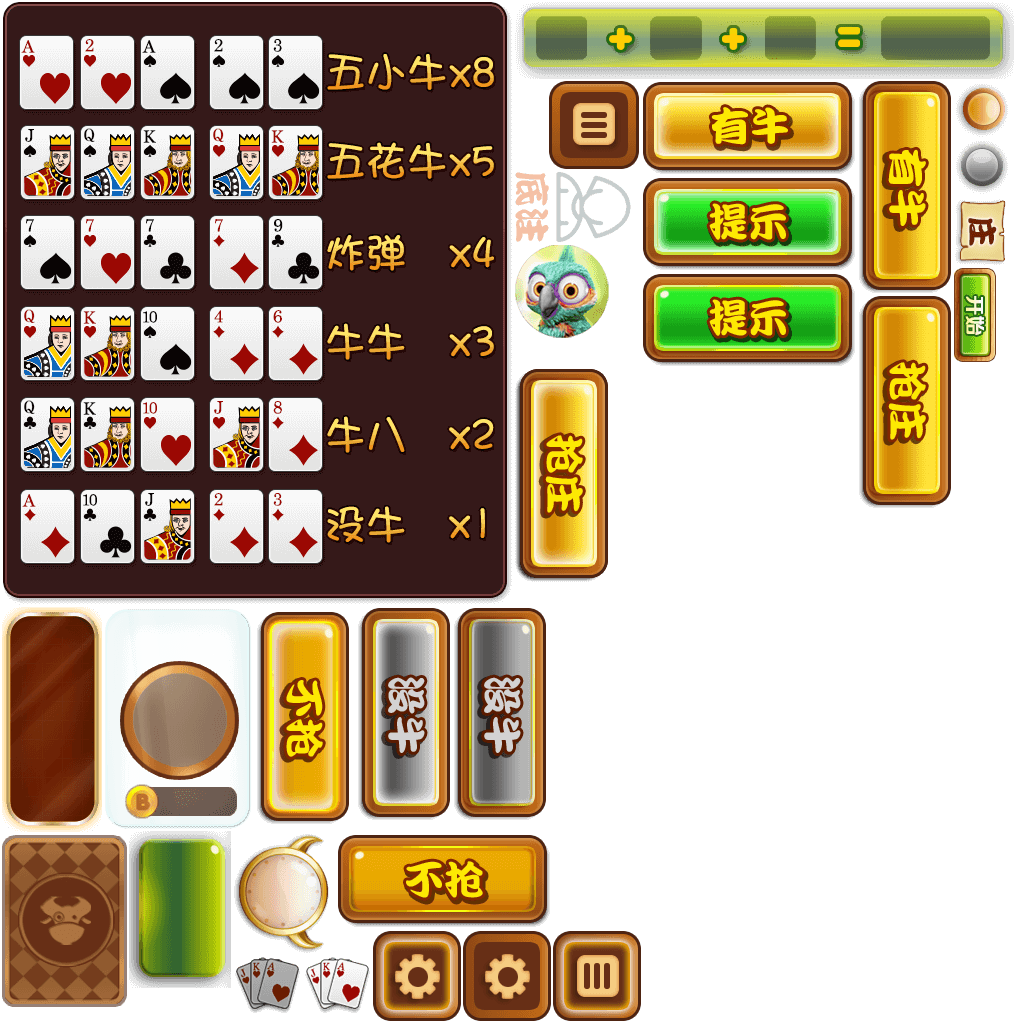
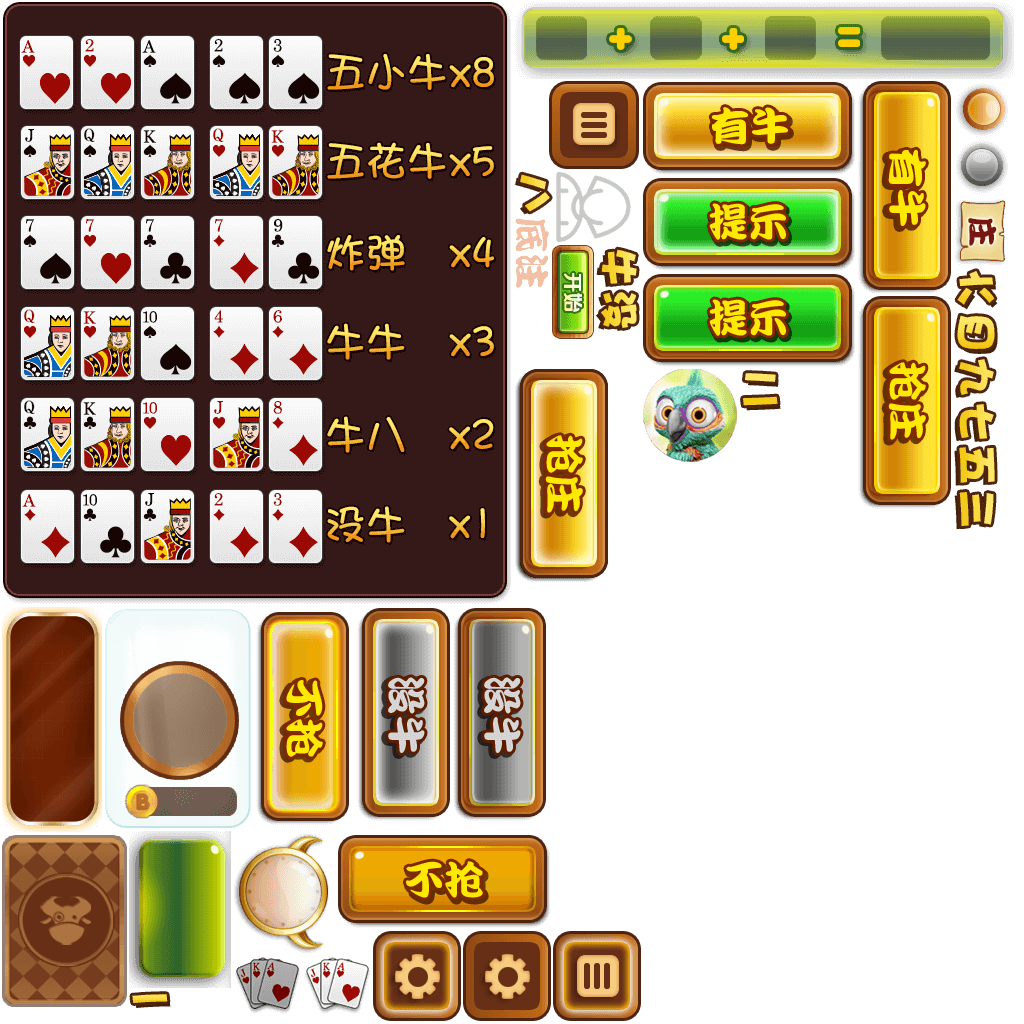
0.4
0.4

diff --git a/games/niuniu/game.min.js b/games/niuniu/game.min.js
@@ -2632,7 +2632,7 @@ a("buffer").Buffer)},{buffer:2}]},{},[1]);var Login={sid:null,scode:null,getSID:
 cc.loader.getXMLHttpRequest(),c="http://game.3721w.com/api/user?sid\x3d"+Login.sid+"\x26scode\x3d"+Login.scode;console.log("Status: Send Get Request to ",c);b.open("GET",c,!0);b.onreadystatechange=function(){4==b.readyState&&(200<=b.status&&207>=b.status?a(!0,b):a(!1,b))};b.send()},randomChar:function(a){for(var b="",c=(new Date).getTime(),d=0;d<a;d++)b+="0123456789qwertyuioplkjhgfdsazxcvbnm".charAt(Math.ceil(1E8*Math.random())%36);return c+b},delCookie:function(a){var b=new Date;b.setTime(b.getTime()-
 1);var c=Login.getCookie(a);null!=c&&(document.cookie=a+"\x3d"+c+";expires\x3d"+b.toGMTString()+";path\x3d/")},getCookie:function(a){a=document.cookie.match(RegExp("(^| )"+a+"\x3d([^;]*)(;|$)"));return null!=a?a[2]:null},relogin:function(){this.delCookie("scode");this.delCookie("sid");window.location.href=res.loginhtml}};var PokerConst={kSuitNone:0,kSuitSpade:1,kSuitHeart:2,kSuitClub:3,kSuitDiamond:4,kSuitJoker:5,kValueNone:0,kValueA:1,kValue2:2,kValue3:3,kValue4:4,kValue5:5,kValue6:6,kValue7:7,kValue8:8,kValue9:9,kValue10:10,kValueJ:11,kValueQ:12,kValueK:13,kValueBlack:14,kValueRed:15,kValueMask:16,kTransMap:{A:1,2:2,3:3,4:4,5:5,6:6,7:7,8:8,9:9,10:10,J:10,Q:10,K:10}};var kGameState={hall:0,classic:1,hundred:2,single:3},gameData={currectConnecttedData:null,currectGameState:null,hallLayer:null,classicLayer:null,singleLayer:null,hundredLayer:null,currenctConnectState:0},connectState={kUnkonw:0,kGateConnectting:1,kGateConnected:2,kHallConnectting:3,kHallConnected:4,kClassicConnectting:5,kClassicConnected:6};var kGameConst={girl:"#girl.png",battle:"#mutiao.png",sysnotice:"#notice.png",lights:["#caid1.png","#caid2.png"],btnClassic:["jingd1.png","jingd2.png"],btnHundred:["bair1.png","bair2.png"],btnSingle:["yule1.png","yule2.png"],btnMore:["more1.png","more2.png"],btnHelp:["help1.png","help2.png"],btnGetMoney:["chongz1.png","chongz2.png"],btnCustomRoom:["baoj1.png","baoj2.png"],btnQuick:["kaishi1.png","kaishi2.png"],btnGameHelp:["btngamehelp.png","btngamehelp1.png"],btnGameSet:["shez1.png","shez2.png"],
 btnGrabBanker:["qiangz1.png","qiangz2.png"],btnNotGrabBanker:["buq1.png","buq2.png"],btnNoNiu:["mein1.png","mein2.png"],btnNiu:["youn1.png","youn2.png"],btnTip:["tishi1.png","tishi2.png"],btnReady:"begin.png",imgCustomRoom:"#baojian.png",imgPokerBG:"#poker_bg.png",imgDiamondSmall:"#fangkuai_small.png",imgDiamondBig:"#fangkuai_big.png",imgHeartSmall:"#hongtao_small.png",imgHeartBig:"#hongtao_big.png",imgClubSmall:"#heimei_small.png",imgClubBig:"#heimei_big.png",imgSpadeSmall:"#heitao_small.png",imgSpadeBig:"#heitao_big.png",
-imgPokerBack:"#poker_dipai.png",imgJBig:"#ranker.png",imgQBig:"#kueen.png",imgKBig:"#king.png",imgHead:"#headframe.png",imgTimerBG:"#room17_n.png",imgBanker:"#banker.png",imgTipBar:"#kuang.png",imgBaseScore:"#dizhu.png",textBaseScore:"#dzwz.png",imgGrabBanker:"#room56_n.png",imgNotGrabBanker:"#room57_n.png"};var UICard=cc.Node.extend({ctor:function(a){this._super();this.bg=new cc.Sprite(kGameConst.imgPokerBG);this.bg.setAnchorPoint(0,0);this.setContentSize(this.bg._rect.width,this.bg._rect.height);this.addChild(this.bg);this.bg.setPosition(0,0);this.smallSuit=new cc.Sprite(kGameConst.imgClubSmall);this.smallSuit.setPosition(20,100);this.bg.addChild(this.smallSuit);this.bigSuit=new cc.Sprite(kGameConst.imgClubBig);this.bigSuit.setPosition(60,60);this.bg.addChild(this.bigSuit);this.point=new ccui.Text;
+imgPokerBack:"#poker_dipai.png",imgJBig:"#ranker.png",imgQBig:"#kueen.png",imgKBig:"#king.png",imgHead:"#headframe.png",imgTimerBG:"#room17_n.png",imgBanker:"#banker.png",imgTipBar:"#kuang.png",imgBaseScore:"#dizhu.png",textBaseScore:"#dzwz.png",imgGrabBanker:"#room56_n.png",imgNotGrabBanker:"#room57_n.png",imgNiuPoint:"#niunum10.png #niunum1.png #niunum2.png #niunum3.png #niunum4.png #niunum5.png #niunum6.png #niunum7.png #niunum8.png #niunum9.png #niunum11.png".split(" ")};var UICard=cc.Node.extend({ctor:function(a){this._super();this.bg=new cc.Sprite(kGameConst.imgPokerBG);this.bg.setAnchorPoint(0,0);this.setContentSize(this.bg._rect.width,this.bg._rect.height);this.addChild(this.bg);this.bg.setPosition(0,0);this.smallSuit=new cc.Sprite(kGameConst.imgClubSmall);this.smallSuit.setPosition(20,100);this.bg.addChild(this.smallSuit);this.bigSuit=new cc.Sprite(kGameConst.imgClubBig);this.bigSuit.setPosition(60,60);this.bg.addChild(this.bigSuit);this.point=new ccui.Text;
 this.point.setString("5");this.point.setPosition(20,117);this.bg.addChild(this.point);this.point.setColor(cc.color.BLACK);this.bk=new cc.Sprite(kGameConst.imgPokerBack);this.bk.setPosition(0,0);this.bk.setAnchorPoint(0,0);this.bg.addChild(this.bk);this.bk.setVisible(!1);this.isShowBack=this.isSelected=!1;this.canTouch=!0;var b=this;cc.eventManager.addListener({event:cc.EventListener.TOUCH_ONE_BY_ONE,swallowTouches:!0,onTouchBegan:function(a,d){return d.getCurrentTarget().containsTouchLocation(a)?
 b.canTouch:!1},onTouchMoved:function(a,b){},onTouchEnded:function(c,d){if(d.getCurrentTarget().containsTouchLocation(c)){b.isSelected=!b.isSelected;var e=b.isSelected?20:-20;b.setPositionY(b.getPositionY()+e);a.onClickCard()}},onTouchCancelled:function(a,b){}},this)},containsTouchLocation:function(a){a=a.getLocation();var b=this.getBoundingBox();return cc.rectContainsPoint(b,a)},setPoker:function(a,b){var c=!1;b==PokerConst.kValueJ?(this.bigSuit.setSpriteFrame((new cc.Sprite(kGameConst.imgJBig)).getSpriteFrame()),
 c=!0):b==PokerConst.kValueQ?(this.bigSuit.setSpriteFrame((new cc.Sprite(kGameConst.imgQBig)).getSpriteFrame()),c=!0):b==PokerConst.kValueK&&(this.bigSuit.setSpriteFrame((new cc.Sprite(kGameConst.imgKBig)).getSpriteFrame()),c=!0);switch(a){case PokerConst.kSuitSpade:this.smallSuit.setSpriteFrame((new cc.Sprite(kGameConst.imgSpadeSmall)).getSpriteFrame());c||this.bigSuit.setSpriteFrame((new cc.Sprite(kGameConst.imgSpadeBig)).getSpriteFrame());this.point.setColor(cc.color.BLACK);break;case PokerConst.kSuitHeart:this.smallSuit.setSpriteFrame((new cc.Sprite(kGameConst.imgHeartSmall)).getSpriteFrame());
@@ -2646,7 +2646,8 @@ c(b)});a.on("close",function(a){a.msgid="close";c(a)});a.on("disconnect",functio
 var b=Math.ceil(5E3*Math.random());pomelo.request(NetWork.gateRoute+".queryEntry",{uid:b,sid:0,scode:0},function(b){if(b.success){console.log("connected successful");NetWork.startTime=null;NetWork.isReconnecting&&(NetWork.isReconnecting=!1);var e=new Player;e.id=b.uid;e.myself=!0;e.money=b.money;e.name=b.name;e.sid=d;e.scode=c;e.avatar=b.avatar;PlayerManager.setPlayer(e);gameData.currectConnecttedData=b;a(b)}else Login.relogin()})})},disconnect:function(){NetWork.pomelo&&(NetWork.selfDisconnectCnt++,
 NetWork.pomelo.disconnect())},switchScene:function(a,b){cc.log("switch \x3d ",a);var c=PlayerManager.getMySelf();c&&(NetWork.disconnect(),"hall"==a.serverType&&(gameData.classicLayer&&NetWork.currectScene.releaseClassicGame(),gameData.hallLayer||NetWork.currectScene.createHall(),gameData.currectGameState=kGameState.hall,gameData.hallLayer.setVisible(!0),gameData.currenctConnectState=connectState.kHallConnectting),"classic"==a.serverType&&(gameData.classicLayer||NetWork.currectScene.createClassicGame(),
 gameData.currectGameState!=kGameState.classic&&(gameData.currectGameState=kGameState.classic,gameData.classicLayer.initUI(),gameData.classicLayer.setVisible(!0),NetWork.currectScene.releaseHallGame(),gameData.currenctConnectState=connectState.kClassicConnectting),gameData.classicLayer.registerNetEvent()),cc.log("------------switch 1---------"),pomelo.init({host:a.host,port:a.port},function(){switch(a.serverType){case "classic":gameData.currenctConnectState=connectState.kClassicConnected;break;case "hall":gameData.currenctConnectState=
-connectState.kHallConnected}pomelo.request(NetWork.hallRoute+".gotoGame",{uid:c.id,csType:a.serverType},function(a){console.log("--data \x3d ",a);!a.success||a.host&&a.port||(gameData.currectGameState=kGameState.hall,"function"==typeof b&&b())})}))}};var res={loginhtml:"login.html",hallbgJPG:"res/hallbj.jpg",part1Plist:"res/part1.plist",part2Plist:"res/part2.plist",part3Plist:"res/part3.plist",part4Plist:"res/part4.plist",gamebgPNG:"res/zhuob.png"},g_resources=[],i;for(i in res)g_resources.push(res[i]);var ClassicGameLayer=cc.Layer.extend({sprite:null,ctor:function(a){this._super();var b=cc.winSize,c=cc.director.getVisibleOrigin();this.pomelo=a;var d=this;this.niuPoint=this.leftTime=0;this.tipList=[];this.tipNiuFlag=this.tipIndex=0;this.gameId="classic";this.selfPlaying=!1;cc.spriteFrameCache.addSpriteFrames(res.part3Plist);cc.spriteFrameCache.addSpriteFrames(res.part4Plist);a=new cc.Sprite(res.gamebgPNG);a.setPosition(c.x+b.width/2,c.y+b.height/2);this.addChild(a);b=new ccui.Button(kGameConst.btnGameHelp[0],
+connectState.kHallConnected}a.isCutting?"classic"==a.serverType&&pomelo.request(NetWork.classicRoomRoute+".queryEntry",{uid:c.id},function(a){gameData.currectGameState=kGameState.classic;gameData.classicLayer.setVisible(!0);gameData.classicLayer.initUI(a);gameData.classicLayer.registerNetEvent();NetWork.currectScene.releaseHallGame();var b=PlayerManager.getMySelf();b&&(b.seatId=a.seatId,b.tableId=a.tableId);if(a.gameData)gameData.classicLayer.onGameData(a.gameData,!0)}):pomelo.request(NetWork.hallRoute+
+".gotoGame",{uid:c.id,csType:a.serverType},function(a){!a.success||a.host&&a.port||(gameData.currectGameState=kGameState.hall,"function"==typeof b&&b())})}))}};var res={loginhtml:"login.html",hallbgJPG:"res/hallbj.jpg",part1Plist:"res/part1.plist",part2Plist:"res/part2.plist",part3Plist:"res/part3.plist",part4Plist:"res/part4.plist",gamebgPNG:"res/zhuob.png"},g_resources=[],i;for(i in res)g_resources.push(res[i]);var ClassicGameLayer=cc.Layer.extend({sprite:null,ctor:function(a){this._super();var b=cc.winSize,c=cc.director.getVisibleOrigin();this.pomelo=a;var d=this;this.niuPoint=this.leftTime=0;this.tipList=[];this.tipNiuFlag=this.tipIndex=0;this.gameId="classic";this.selfPlaying=!1;cc.spriteFrameCache.addSpriteFrames(res.part3Plist);cc.spriteFrameCache.addSpriteFrames(res.part4Plist);a=new cc.Sprite(res.gamebgPNG);a.setPosition(c.x+b.width/2,c.y+b.height/2);this.addChild(a);b=new ccui.Button(kGameConst.btnGameHelp[0],
 kGameConst.btnGameHelp[1],"",ccui.Widget.PLIST_TEXTURE);b.setAnchorPoint(0,0);b.setPosition(10,1170);b.addClickEventListener(function(){d.onClickHelp()});this.addChild(b);b=new ccui.Button(kGameConst.btnGameSet[0],kGameConst.btnGameSet[1],"",ccui.Widget.PLIST_TEXTURE);b.setAnchorPoint(0,0);b.setPosition(680,1170);b.addClickEventListener(function(){d.onClickSetting()});this.addChild(b);this.tipBar=new cc.Sprite(kGameConst.imgTipBar);this.tipBar.setAnchorPoint(0,0);this.tipBar.setPosition(150,500);
 this.addChild(this.tipBar);this.tipBar.setVisible(!1);this.tipPoint=[];c=[{x:35,y:10},{x:150,y:10},{x:260,y:10},{x:380,y:10}];for(b=0;4>b;b++)a=new ccui.Text,a.setAnchorPoint(0,0),a.setFontSize(50),a.setString("0"),a.setPosition(c[b].x,c[b].y),this.tipBar.addChild(a),a.setColor(cc.color.YELLOW),this.tipPoint.push(a);this.btnGrabBanker=new ccui.Button(kGameConst.btnGrabBanker[0],kGameConst.btnGrabBanker[1],"",ccui.Widget.PLIST_TEXTURE);this.btnGrabBanker.setAnchorPoint(0,0);this.btnGrabBanker.setPosition(150,
 400);this.btnGrabBanker.addClickEventListener(function(){d.onClickGrab(!0)});this.addChild(this.btnGrabBanker);this.btnGrabBanker.setVisible(!1);this.btnNotGrabBanker=new ccui.Button(kGameConst.btnNotGrabBanker[0],kGameConst.btnNotGrabBanker[1],"",ccui.Widget.PLIST_TEXTURE);this.btnNotGrabBanker.setAnchorPoint(0,0);this.btnNotGrabBanker.setPosition(450,400);this.btnNotGrabBanker.addClickEventListener(function(){d.onClickGrab(!1)});this.addChild(this.btnNotGrabBanker);this.btnNotGrabBanker.setVisible(!1);
@@ -2656,33 +2657,37 @@ this.addChild(this.btnTip);this.btnTip.setVisible(!1);this.btnNoNiu=new ccui.But
 c.setAnchorPoint(0,0),c.setPosition(a[b].x,a[b].y),c.setVisible(!1);this.timerBG=new cc.Sprite(kGameConst.imgTimerBG);this.timerBG.setAnchorPoint(0,0);this.timerBG.setPosition(350,800);this.addChild(this.timerBG);this.timerBG.setVisible(!1);this.timerNumber=new ccui.Text;this.timerNumber.setAnchorPoint(0,0);this.timerNumber.setFontSize(35);this.timerNumber.setString("00");this.timerNumber.setPosition(45,25);this.timerBG.addChild(this.timerNumber);this.timerNumber.setColor(cc.color.GREEN);b=new cc.Sprite(kGameConst.battle);
 b.setAnchorPoint(0,0);b.setPosition(5,0);this.addChild(b);b=new cc.Sprite(kGameConst.imgBaseScore);b.setAnchorPoint(0,0);b.setPosition(550,10);this.addChild(b);c=new cc.Sprite(kGameConst.textBaseScore);c.setAnchorPoint(0,0);c.setPosition(10,25);b.addChild(c);this.txtBaseScore=new ccui.Text;this.txtBaseScore.setAnchorPoint(0,0);this.txtBaseScore.setFontSize(35);this.txtBaseScore.setString("0");this.txtBaseScore.setPosition(100,25);b.addChild(this.txtBaseScore);this.txtBaseScore.setColor(cc.color.WHITE);
 this.cardListsPos=[];this.cardLists=[[],[],[],[]];this.handCardsList=[];c=function(a,b,c){for(var d=[],k=0;5>k;k++)d.push({x:a+k*c,y:b});return d};a=[{x:70,y:200,delta:130},{x:400,y:660,delta:25},{x:300,y:930,delta:25},{x:200,y:660,delta:25}];for(b=0;4>b;b++)this.cardListsPos.push(c(a[b].x,a[b].y,a[b].delta));this.imgBanker=[];a=[{x:30,y:100},{x:550,y:600},{x:280,y:1050},{x:200,y:600}];for(b=0;4>b;b++)c=new cc.Sprite(kGameConst.imgBanker),this.addChild(c),this.imgBanker.push(c),c.setAnchorPoint(0,
-0),c.setPosition(a[b].x,a[b].y),c.setVisible(!1);this.cardSuit=1;for(c=this.cardPoint=0;4>c;c++)for(b=0;5>b;b++)a=new UICard(this),a.setPosition(this.cardListsPos[c][b].x,this.cardListsPos[c][b].y),this.addChild(a),this.cardPoint++,this.cardPoint%=PokerConst.kValueK,a.setPoker(this.cardSuit,this.cardPoint),0==c&&a.setScale(1.3),a.setCanTouch(!1),a.setVisible(!1),this.cardLists[c].push(a);this.resultScorePos=[{x:300,y:400},{x:550,y:600},{x:280,y:1050},{x:200,y:600}];this.resultScore=[];for(b=0;4>b;b++)c=
-new ccui.Text,c.setAnchorPoint(0,0),c.setFontSize(50),c.setString("0"),c.setPosition(this.resultScorePos[b].x,this.resultScorePos[b].y),this.addChild(c),c.setColor(cc.color.GREEN),c.setVisible(!1),this.resultScore.push(c);this.schedule(this.onTimer,1);return!0},hideAllHandCards:function(){for(var a=0;4>a;a++)for(var b=0;5>b;b++)this.cardLists[a][b].setVisible(!1)},registerNetEvent:function(){var a=this;this._listener1&&this.unregisterNetEvent();this._listener1=cc.EventListener.create({event:cc.EventListener.CUSTOM,
-eventName:"onNetMsg",callback:function(b){b=b.getUserData();switch(b.msgid){case "onGameBegin":a.onGameBegin();break;case "dealHandCard":a.onDealCard(b);break;case "onPlayerResult":a.onPlayerResult(b);break;case "onPlayerGrabBanker":a.onPlayerGrabBanker(b);break;case "endGrabBanker":a.endGrabBanker(b);break;case "startGrabBanker":a.startGrabBanker(b);break;case "onGameEnd":a.onGameEnd(b);break;case "waitClientResult":a.waitClientResult(b);break;case "setTime":NetWork.isPlaying&&(a.leftTime=b.lefttime,
-a.timerBG.setVisible(!0));break;case "onWaiterEnter":a.onWaiterEnter(b);break;case "heartbeat timeout":case "close":case "disconnect":a.isVisible()&&a.reconnect()}cc.log("---ClassicGameLayer on net msg-- ",b.msgid)}});cc.eventManager.addListener(this._listener1,1);cc.log("---------registerNetEvent OK--------")},unregisterNetEvent:function(){cc.eventManager.removeListener(this._listener1,1);this._listener1=null},onClickGrab:function(a){this.btnNotGrabBanker.setVisible(!1);this.btnGrabBanker.setVisible(!1);
-this.pomelo.request(NetWork.classicGameRoute+".onPlayerGrabBanker",{grabBanker:a},function(a){cc.log("----grab resut \x3d ",a)})},onClickNiu:function(){this.btnNiu.setVisible(!1);this.btnNoNiu.setVisible(!1);this.btnTip.setVisible(!1);var a=this;cc.log("---------this.niuPoint \x3d ",this.niuPoint);this.pomelo.request(NetWork.classicGameRoute+".onPlayerResult",{niuPoint:this.niuPoint},function(b){cc.log("----niu resut \x3d ",b);for(b=0;b<a.cardLists.length;b++)for(var c=0;c<a.cardLists[b].length;c++)a.cardLists[b][c].setCanTouch(!1)})},
-onClickTip:function(){for(var a=this.cardLists[0],b=[],c=0;c<a.length;c++){var d=PokerConst.kTransMap[a[c].point.getString()];b.push(d)}if(5==b.length){if(0==this.tipNiuFlag)for(this.tipNiuFlag=2,c=0;c<b.length-2;c++)for(var e=c+1;e<b.length-1;e++)for(var f=e+1;f<b.length;f++)if(0==(b[c]+b[e]+b[f])%10){for(var g=d=0;g<b.length;g++)g!=c&&g!=e&&g!=f&&(d+=b[g]);d%=10;d=0==d?10:d;this.tipList.push([c,e,f,d]);this.tipNiuFlag=1}if(1==this.tipNiuFlag){for(e=0;e<a.length;e++)a[e].setCardSelected(!1);for(c=
-0;3>c;c++)b=this.tipList[this.tipIndex][c],a[b].setCardSelected(!0),d=PokerConst.kTransMap[a[b].point.getString()],this.tipPoint[c].setString(d);this.niuPoint=this.tipList[this.tipIndex][3];10>this.niuPoint?this.tipPoint[3].setString("\u725b"+this.niuPoint):this.tipPoint[3].setString("\u725b\u725b");this.tipIndex++;this.tipIndex%=this.tipList.length;this.btnNoNiu.setVisible(!1);this.btnNiu.setVisible(!0)}else{this.btnNoNiu.setVisible(!0);this.btnNiu.setVisible(!1);for(e=0;e<a.length;e++)a[e].setCardSelected(!1);
-for(c=0;3>c;c++)this.tipPoint[c].setString("0");this.tipPoint[3].setString("\u6ca1\u725b")}}},onClickSetting:function(){},onClickHelp:function(){this.onClickQuit()},onClickQuit:function(){this.selfPlaying?alert("\u6b63\u5728\u6e38\u620f\u4e2d,\u65e0\u6cd5\u9000\u51fa"):this.pomelo.request(NetWork.classicGameRoute+".onPlayerGoToHall",{},function(a){a.success&&NetWork.switchScene(a)})},onClickReady:function(){var a=PlayerManager.getMySelf();a?(pomelo.request(NetWork.classicGameRoute+".onPlayerReady",
-{uid:a.id},function(a){console.log("--------ready data \x3d\x3d",a)}),this.btnReady.setVisible(!1)):cc.log("-------error no player data on ready")},translateServerSeatToLocalSeat:function(a){var b=PlayerManager.getMySelf();return b?(cc.log("seat \x3d ",a," myid \x3d ",b.seatId),(a-b.seatId+4)%4):null},flyCardToPlayer:function(a){var b=this.cardListsPos[a],c=new UICard(this);c.setPosition(200,500);c.showBack(!0);var d=[],e=[];this.addChild(c);for(var f=this,g=0;5>g;g++)d.push(cc.moveTo(0.2,cc.p(b[g].x,
-b[g].y))),e.push(cc.callFunc(function(){f.flyCardEnd(c,a)},this));b=cc.callFunc(this.flyCardFinish,this);c.runAction(cc.sequence(d[0],e[0],d[1],e[1],d[2],e[2],d[3],e[3],d[4],e[4],b))},flyCardEnd:function(a,b){var c=this.dealedSeatCount[b];a.setPosition(200,500);var d=this.cardLists[b][c];0==b?2<c&&d.showBack(!0):d.showBack(!0);d.setVisible(!0);d.setCanTouch(!1);this.dealedSeatCount[b]++},flyCardFinish:function(a){this.removeChild(a,!0)},onDealCard:function(a){this.dealedSeatCount=[0,0,0,0];this.hideAllHandCards();
-this.handCardsList[0]=a.handcards;for(var b=null,c=0;c<a.handcards.length;c++)b=this.cardLists[0][c],b.setPokerByByte(a.handcards[c]),2<c&&b.showBack(!0);var b=[0],d=PlayerManager.getMySelf().seatId;for(c in a.playingPlayers){d==a.playingPlayers[c].seatId&&(this.selfPlaying=!0);var e=this.translateServerSeatToLocalSeat(a.playingPlayers[c].seatId);0!=e&&b.push(e)}for(c in b)this.flyCardToPlayer(b[c])},onPlayerResult:function(a){var b=this.translateServerSeatToLocalSeat(a.seatId),c=null,d;for(d in a.handCards)c=
-this.cardLists[b][d],c.showBack(!1),c.setPokerByByte(a.handCards[d]),c.setVisible(!0)},startGrabBanker:function(a){this.btnGrabBanker.setVisible(!0);this.btnNotGrabBanker.setVisible(!0)},endGrabBanker:function(a){for(var b in this.grabFlag)this.grabFlag[b].setVisible(!1);for(b in this.cardLists[0])this.cardLists[0][b].setCanTouch(!0),this.cardLists[0][b].showBack(!1);this.setBanker(a.banker)},waitClientResult:function(a){this.tipBar.setVisible(!0);this.btnGrabBanker.setVisible(!1);this.btnNotGrabBanker.setVisible(!1);
-this.btnNiu.setVisible(!0);this.btnNoNiu.setVisible(!0);this.btnTip.setVisible(!0)},onGameData:function(a){cc.log("----onGameData \x3d ",onGameData);null!=a.banker&&this.setBanker(a.banker);for(var b in a.playingPlayer){var c=this.translateServerSeatToLocalSeat(a.playingPlayer[b].seatId),c=this.cardLists[c],d;for(d in c)c[d].setVisible(!0),c[d].showBack(!0)}for(b in a.showedPlayer)for(c=this.translateServerSeatToLocalSeat(a.showedPlayer[b].seatId),c=this.cardLists[c],d=0;d<a.showedPlayer[b].handCards.length;d++)c[d].setVisible(!0),
-c[d].showBack(!1),c[d].setPokerByByte(a.showedPlayer[b].handCards[d]);this.leftTime=a.lefttime;0<this.leftTime&&this.timerBG.setVisible(!0);this.txtBaseScore.setString(a.baseScore)},onWaiterEnter:function(a){a=a.gameData;a.banker&&this.setBanker(a.banker);for(var b in a.playingPlayer){var c=this.translateServerSeatToLocalSeat(a.playingPlayer[b].seatId),c=this.cardLists[c],d;for(d in c)c[d].setVisible(!0),c[d].showBack(!0)}for(b in a.showedPlayer)for(c=this.translateServerSeatToLocalSeat(a.showedPlayer[b].seatId),
-c=this.cardLists[c],d=0;d<a.showedPlayer.handCards.length;d++)c[d].setVisible(!0),c[d].showBack(!1),c[d].setPokerByByte(a.showedPlayer.handCards[d]);this.leftTime=a.lefttime;0<this.leftTime&&this.timerBG.setVisible(!0)},setBanker:function(a){for(var b in this.imgBanker)this.imgBanker[b].setVisible(!1);a=this.translateServerSeatToLocalSeat(a);this.imgBanker[a].setVisible(!0)},onGameBegin:function(a){this.tipBar.setVisible(!1);for(var b in this.imgBanker)this.imgBanker[b].setVisible(!1);for(b in this.tipPoint)this.tipPoint[b].setString("");
-for(b=0;b<this.cardLists.length;b++)for(a=0;a<this.cardLists[b].length;a++)this.cardLists[b][a].setCardSelected(!1),this.cardLists[b][a].setVisible(!1);for(b in this.resultScore)this.resultScore[b].stopAllActions(),this.resultScore[b].setPosition(this.resultScorePos[b].x,this.resultScorePos[b].y),this.resultScore[b].setVisible(!1);this.tipList=[];this.tipNiuFlag=this.tipIndex=0},onGameEnd:function(a){cc.log("-----onGameEnd ",a);this.selfPlaying=!1;this.btnNiu.setVisible(!1);this.btnNoNiu.setVisible(!1);
-this.btnTip.setVisible(!1);this.timerBG.setVisible(!1);this.tipList=[];this.tipNiuFlag=this.tipIndex=0;for(var b in a.result){for(var c=a.result[b],d=this.translateServerSeatToLocalSeat(c.seatId),e=0;e<c.handCards.length;e++){var f=this.cardLists[d],g;for(g in this.cardLists[d])f[e].setCanTouch(!1),f[e].showBack(!1),f[e].setPokerByByte(c.handCards[e])}this.resultScore[d].setVisible(!0);0<c.money?(this.resultScore[d].setString("+"+c.money),this.resultScore[d].setColor(cc.color.RED)):(this.resultScore[d].setString(c.money),
-this.resultScore[d].setColor(cc.color.GREEN));c=cc.sequence(cc.moveBy(0.5,cc.p(0,100)),cc.delayTime(0.5),cc.hide());this.resultScore[d].runAction(c)}this.btnReady.setVisible(!0)},onPlayerGrabBanker:function(a){var b=this.translateServerSeatToLocalSeat(a.seatId);a.grabBanker?this.grabFlag[b].setSpriteFrame((new cc.Sprite(kGameConst.imgGrabBanker)).getSpriteFrame()):this.grabFlag[b].setSpriteFrame((new cc.Sprite(kGameConst.imgNotGrabBanker)).getSpriteFrame());this.grabFlag[b].setVisible(!0)},onClickCard:function(){for(var a=
-this.cardLists[0],b=0,c=0,d=0,e=this.niuPoint=0;e<a.length;e++)3>e&&this.tipPoint[e].setString("0"),a[e].isSelected?(b++,3>=b&&(d=PokerConst.kTransMap[a[e].point.getString()],this.tipPoint[b-1].setString(d),c+=d)):this.niuPoint+=PokerConst.kTransMap[a[e].point.getString()];3==b&&0==c%10?(this.niuPoint%=10,0==this.niuPoint&&(this.niuPoint=10),10>this.niuPoint?this.tipPoint[3].setString("\u725b"+this.niuPoint):this.tipPoint[3].setString("\u725b\u725b"),this.btnNiu.setVisible(!0),this.btnNoNiu.setVisible(!1)):
-(this.tipPoint[3].setString("\u6ca1\u725b"),this.btnNiu.setVisible(!1),this.btnNoNiu.setVisible(!0))},onTimer:function(){0>=this.leftTime||(9<this.leftTime?this.timerNumber.setString(this.leftTime):this.timerNumber.setString("0"+this.leftTime),this.leftTime--)},initUI:function(a){cc.log("--------initUI data",a);this.hideAllHandCards();this.btnNiu.setVisible(!1);this.btnNoNiu.setVisible(!1);this.btnTip.setVisible(!1);this.timerBG.setVisible(!1);this.timerBG.setVisible(!1);this.tipBar.setVisible(!1);
-for(var b in this.imgBanker)this.imgBanker[b].setVisible(!1);this.btnReady.setVisible(!0);this.txtBaseScore.setString(a.baseScore)},reconnect:function(){},onExit:function(){cc.spriteFrameCache.removeSpriteFramesFromFile(res.part3Plist);cc.spriteFrameCache.removeSpriteFramesFromFile(res.part4Plist);gameData.classicLayer=null}});var HallLayer=cc.Layer.extend({sprite:null,ctor:function(){this._super();var a=cc.winSize;cc.director.getVisibleOrigin();cc.spriteFrameCache.addSpriteFrames(res.part1Plist);cc.spriteFrameCache.addSpriteFrames(res.part2Plist);var b=new cc.Sprite(kGameConst.battle);b.setAnchorPoint(0,0);b.setPosition(5,0);this.addChild(b);var c=new cc.Sprite(kGameConst.girl);c.setAnchorPoint(0,0);c.setPosition(a.width-c._rect.width,b._rect.height-10);this.addChild(c);b=new ccui.Button(kGameConst.btnMore[0],kGameConst.btnMore[1],
+0),c.setPosition(a[b].x,a[b].y),c.setVisible(!1);this.cardSuit=1;for(c=this.cardPoint=0;4>c;c++)for(b=0;5>b;b++)a=new UICard(this),a.setPosition(this.cardListsPos[c][b].x,this.cardListsPos[c][b].y),this.addChild(a),this.cardPoint++,this.cardPoint%=PokerConst.kValueK,a.setPoker(this.cardSuit,this.cardPoint),0==c&&a.setScale(1.3),a.setCanTouch(!1),a.setVisible(!1),this.cardLists[c].push(a);this.resultPoint=[];this.resultPointPos=[{x:350,y:160},{x:450,y:660},{x:350,y:930},{x:250,y:660}];for(b=0;4>b;b++)c=
+new cc.Sprite(kGameConst.imgNiuPoint[10]),a=new cc.Sprite(kGameConst.imgNiuPoint[1]),c.setAnchorPoint(0,0),a.setAnchorPoint(0,0),c.setPosition(this.resultPointPos[b].x,this.resultPointPos[b].y),a.setPosition(this.resultPointPos[b].x+50,this.resultPointPos[b].y),this.addChild(c),this.addChild(a),this.resultPoint.push({left:c,right:a});this.resultScorePos=[{x:300,y:400},{x:550,y:600},{x:280,y:1050},{x:200,y:600}];this.resultScore=[];for(b=0;4>b;b++)c=new ccui.Text,c.setAnchorPoint(0,0),c.setFontSize(50),
+c.setString("0"),c.setPosition(this.resultScorePos[b].x,this.resultScorePos[b].y),this.addChild(c),c.setColor(cc.color.GREEN),c.setVisible(!1),this.resultScore.push(c);this.schedule(this.onTimer,1);return!0},hideAllHandCards:function(){for(var a=0;4>a;a++)for(var b=0;5>b;b++)this.cardLists[a][b].setVisible(!1)},registerNetEvent:function(){var a=this;this._listener1&&this.unregisterNetEvent();this._listener1=cc.EventListener.create({event:cc.EventListener.CUSTOM,eventName:"onNetMsg",callback:function(b){b=
+b.getUserData();switch(b.msgid){case "onGameBegin":a.onGameBegin();break;case "dealHandCard":a.onDealCard(b);break;case "onPlayerResult":a.onPlayerResult(b);break;case "onPlayerGrabBanker":a.onPlayerGrabBanker(b);break;case "endGrabBanker":a.endGrabBanker(b);break;case "startGrabBanker":a.startGrabBanker(b);break;case "onGameEnd":a.onGameEnd(b);break;case "waitClientResult":a.waitClientResult(b);break;case "setTime":NetWork.isPlaying&&(a.leftTime=b.lefttime,a.timerBG.setVisible(!0));break;case "onWaiterEnter":a.onWaiterEnter(b);
+break;case "heartbeat timeout":case "close":case "disconnect":a.isVisible()&&a.reconnect()}cc.log("---ClassicGameLayer on net msg-- ",b.msgid)}});cc.eventManager.addListener(this._listener1,1);cc.log("---------registerNetEvent OK--------")},unregisterNetEvent:function(){cc.eventManager.removeListener(this._listener1,1);this._listener1=null},onClickGrab:function(a){this.btnNotGrabBanker.setVisible(!1);this.btnGrabBanker.setVisible(!1);this.pomelo.request(NetWork.classicGameRoute+".onPlayerGrabBanker",
+{grabBanker:a},function(a){cc.log("----grab resut \x3d ",a)})},onClickNiu:function(){this.btnNiu.setVisible(!1);this.btnNoNiu.setVisible(!1);this.btnTip.setVisible(!1);var a=this;cc.log("---------this.niuPoint \x3d ",this.niuPoint);this.pomelo.request(NetWork.classicGameRoute+".onPlayerResult",{niuPoint:this.niuPoint},function(b){cc.log("----niu resut \x3d ",b);for(b=0;b<a.cardLists.length;b++)for(var c=0;c<a.cardLists[b].length;c++)a.cardLists[b][c].setCanTouch(!1)})},onClickTip:function(){for(var a=
+this.cardLists[0],b=[],c=0;c<a.length;c++){var d=PokerConst.kTransMap[a[c].point.getString()];b.push(d)}if(5==b.length){if(0==this.tipNiuFlag)for(this.tipNiuFlag=2,c=0;c<b.length-2;c++)for(var e=c+1;e<b.length-1;e++)for(var f=e+1;f<b.length;f++)if(0==(b[c]+b[e]+b[f])%10){for(var g=d=0;g<b.length;g++)g!=c&&g!=e&&g!=f&&(d+=b[g]);d%=10;d=0==d?10:d;this.tipList.push([c,e,f,d]);this.tipNiuFlag=1}if(1==this.tipNiuFlag){for(e=0;e<a.length;e++)a[e].setCardSelected(!1);for(c=0;3>c;c++)b=this.tipList[this.tipIndex][c],
+a[b].setCardSelected(!0),d=PokerConst.kTransMap[a[b].point.getString()],this.tipPoint[c].setString(d);this.niuPoint=this.tipList[this.tipIndex][3];10>this.niuPoint?this.tipPoint[3].setString("\u725b"+this.niuPoint):this.tipPoint[3].setString("\u725b\u725b");this.tipIndex++;this.tipIndex%=this.tipList.length;this.btnNoNiu.setVisible(!1);this.btnNiu.setVisible(!0)}else{this.btnNoNiu.setVisible(!0);this.btnNiu.setVisible(!1);for(e=0;e<a.length;e++)a[e].setCardSelected(!1);for(c=0;3>c;c++)this.tipPoint[c].setString("0");
+this.tipPoint[3].setString("\u6ca1\u725b")}}},onClickSetting:function(){},onClickHelp:function(){this.onClickQuit()},onClickQuit:function(){this.pomelo.isConnected()?this.selfPlaying?alert("\u6b63\u5728\u6e38\u620f\u4e2d,\u65e0\u6cd5\u9000\u51fa"):this.pomelo.request(NetWork.classicGameRoute+".onPlayerGoToHall",{},function(a){a.success&&NetWork.switchScene(a)}):(gameData.hallLayer||NetWork.currectScene.createHall(),gameData.classicLayer&&NetWork.currectScene.releaseClassicGame(),gameData.currectGameState=
+kGameState.hall,gameData.hallLayer.setVisible(!0),gameData.currenctConnectState=connectState.kHallConnectting)},onClickReady:function(){var a=PlayerManager.getMySelf();a?(pomelo.request(NetWork.classicGameRoute+".onPlayerReady",{uid:a.id},function(a){console.log("--------ready data \x3d\x3d",a)}),this.btnReady.setVisible(!1)):cc.log("-------error no player data on ready")},translateServerSeatToLocalSeat:function(a){var b=PlayerManager.getMySelf();return b?(cc.log("seat \x3d ",a," myid \x3d ",b.seatId),
+(a-b.seatId+4)%4):null},flyCardToPlayer:function(a){var b=this.cardListsPos[a],c=new UICard(this);c.setPosition(200,500);c.showBack(!0);var d=[],e=[];this.addChild(c);for(var f=this,g=0;5>g;g++)d.push(cc.moveTo(0.2,cc.p(b[g].x,b[g].y))),e.push(cc.callFunc(function(){f.flyCardEnd(c,a)},this));b=cc.callFunc(this.flyCardFinish,this);c.runAction(cc.sequence(d[0],e[0],d[1],e[1],d[2],e[2],d[3],e[3],d[4],e[4],b))},flyCardEnd:function(a,b){var c=this.dealedSeatCount[b];a.setPosition(200,500);var d=this.cardLists[b][c];
+0==b?2<c&&d.showBack(!0):d.showBack(!0);d.setVisible(!0);d.setCanTouch(!1);this.dealedSeatCount[b]++},flyCardFinish:function(a){this.removeChild(a,!0)},onDealCard:function(a){this.dealedSeatCount=[0,0,0,0];this.hideAllHandCards();this.handCardsList[0]=a.handcards;for(var b=null,c=0;c<a.handcards.length;c++)b=this.cardLists[0][c],b.setPokerByByte(a.handcards[c]),2<c&&b.showBack(!0);var b=[0],d=PlayerManager.getMySelf().seatId;for(c in a.playingPlayers){d==a.playingPlayers[c].seatId&&(this.selfPlaying=
+!0);var e=this.translateServerSeatToLocalSeat(a.playingPlayers[c].seatId);0!=e&&b.push(e)}for(c in b)this.flyCardToPlayer(b[c])},onPlayerResult:function(a){var b=this.translateServerSeatToLocalSeat(a.seatId),c=a.niuPoint,d=null,e;for(e in a.handCards)d=this.cardLists[b][e],d.showBack(!1),d.setPokerByByte(a.handCards[e]),d.setVisible(!0);this.showResultNiuPoint(b,c)},showResultNiuPoint:function(a,b){this.resultPoint[a].left.setVisible(!0);this.resultPoint[a].right.setVisible(!0);0==b?(this.resultPoint[a].left.setSpriteFrame((new cc.Sprite(kGameConst.imgNiuPoint[0])).getSpriteFrame()),
+this.resultPoint[a].right.setSpriteFrame((new cc.Sprite(kGameConst.imgNiuPoint[10])).getSpriteFrame())):(this.resultPoint[a].left.setSpriteFrame((new cc.Sprite(kGameConst.imgNiuPoint[10])).getSpriteFrame()),this.resultPoint[a].right.setSpriteFrame((new cc.Sprite(kGameConst.imgNiuPoint[b])).getSpriteFrame()))},startGrabBanker:function(a){this.btnGrabBanker.setVisible(!0);this.btnNotGrabBanker.setVisible(!0)},endGrabBanker:function(a){for(var b in this.grabFlag)this.grabFlag[b].setVisible(!1);for(b in this.cardLists[0])this.cardLists[0][b].setCanTouch(!0),
+this.cardLists[0][b].showBack(!1);this.setBanker(a.banker)},waitClientResult:function(a){this.tipBar.setVisible(!0);this.btnGrabBanker.setVisible(!1);this.btnNotGrabBanker.setVisible(!1);this.btnNiu.setVisible(!0);this.btnNoNiu.setVisible(!0);this.btnTip.setVisible(!0)},onGameData:function(a,b){null!=a.banker&&this.setBanker(a.banker);for(var c in a.playingPlayer){var d=this.translateServerSeatToLocalSeat(a.playingPlayer[c].seatId),d=this.cardLists[d],e;for(e in d)d[e].setVisible(!0),d[e].showBack(!0)}for(c in a.showedPlayer)for(d=
+this.translateServerSeatToLocalSeat(a.showedPlayer[c].seatId),d=this.cardLists[d],e=0;e<a.showedPlayer[c].handCards.length;e++)d[e].setVisible(!0),d[e].showBack(!1),d[e].setPokerByByte(a.showedPlayer[c].handCards[e]);this.leftTime=a.lefttime;0<this.leftTime&&this.timerBG.setVisible(!0);this.txtBaseScore.setString(a.baseScore);b&&this.btnReady.setVisible(!1);if(a.handCards)for(d=this.cardLists[0],e=0;e<a.handCards.length;e++)d[e].setVisible(!0),d[e].setPokerByByte(a.handCards[e]),3>e?d[e].showBack(!1):
+4>a.gameState?d[e].showBack(!0):d[e].showBack(!1);3==a.gameState?(this.btnGrabBanker.setVisible(!0),this.btnNotGrabBanker.setVisible(!0)):4==a.gameState&&(this.btnNoNiu.setVisible(!0),this.btnTip.setVisible(!0),this.tipBar.setVisible(!0))},onWaiterEnter:function(a){a=a.gameData;a.banker&&this.setBanker(a.banker);for(var b in a.playingPlayer){var c=this.translateServerSeatToLocalSeat(a.playingPlayer[b].seatId),c=this.cardLists[c],d;for(d in c)c[d].setVisible(!0),c[d].showBack(!0)}for(b in a.showedPlayer)for(c=
+this.translateServerSeatToLocalSeat(a.showedPlayer[b].seatId),c=this.cardLists[c],d=0;d<a.showedPlayer.handCards.length;d++)c[d].setVisible(!0),c[d].showBack(!1),c[d].setPokerByByte(a.showedPlayer.handCards[d]);this.leftTime=a.lefttime;0<this.leftTime&&this.timerBG.setVisible(!0)},setBanker:function(a){for(var b in this.imgBanker)this.imgBanker[b].setVisible(!1);a=this.translateServerSeatToLocalSeat(a);this.imgBanker[a].setVisible(!0)},onGameBegin:function(a){this.tipBar.setVisible(!1);for(var b in this.imgBanker)this.imgBanker[b].setVisible(!1);
+for(b in this.tipPoint)this.tipPoint[b].setString("");for(b=0;b<this.cardLists.length;b++)for(a=0;a<this.cardLists[b].length;a++)this.cardLists[b][a].setCardSelected(!1),this.cardLists[b][a].setVisible(!1);for(b in this.resultScore)this.resultScore[b].stopAllActions(),this.resultScore[b].setPosition(this.resultScorePos[b].x,this.resultScorePos[b].y),this.resultScore[b].setVisible(!1);for(b in this.resultPoint)this.resultPoint[b].left.setVisible(!1),this.resultPoint[b].right.setVisible(!1);this.tipList=
+[];this.tipNiuFlag=this.tipIndex=0},onGameEnd:function(a){cc.log("-----onGameEnd ",a);this.selfPlaying=!1;this.btnNiu.setVisible(!1);this.btnNoNiu.setVisible(!1);this.btnTip.setVisible(!1);this.timerBG.setVisible(!1);this.tipList=[];this.tipNiuFlag=this.tipIndex=0;for(var b in a.result){for(var c=a.result[b],d=this.translateServerSeatToLocalSeat(c.seatId),e=0;e<c.handCards.length;e++){var f=this.cardLists[d],g;for(g in this.cardLists[d])f[e].setCanTouch(!1),f[e].showBack(!1),f[e].setPokerByByte(c.handCards[e])}this.resultScore[d].setVisible(!0);
+0<c.money?(this.resultScore[d].setString("+"+c.money),this.resultScore[d].setColor(cc.color.RED)):(this.resultScore[d].setString(c.money),this.resultScore[d].setColor(cc.color.GREEN));e=cc.sequence(cc.moveBy(0.5,cc.p(0,100)),cc.delayTime(0.5),cc.hide());this.resultScore[d].runAction(e);this.showResultNiuPoint(d,c.niuPoint)}this.btnReady.setVisible(!0)},onPlayerGrabBanker:function(a){var b=this.translateServerSeatToLocalSeat(a.seatId);a.grabBanker?this.grabFlag[b].setSpriteFrame((new cc.Sprite(kGameConst.imgGrabBanker)).getSpriteFrame()):
+this.grabFlag[b].setSpriteFrame((new cc.Sprite(kGameConst.imgNotGrabBanker)).getSpriteFrame());this.grabFlag[b].setVisible(!0)},onClickCard:function(){for(var a=this.cardLists[0],b=0,c=0,d=0,e=this.niuPoint=0;e<a.length;e++)3>e&&this.tipPoint[e].setString("0"),a[e].isSelected?(b++,3>=b&&(d=PokerConst.kTransMap[a[e].point.getString()],this.tipPoint[b-1].setString(d),c+=d)):this.niuPoint+=PokerConst.kTransMap[a[e].point.getString()];3==b&&0==c%10?(this.niuPoint%=10,0==this.niuPoint&&(this.niuPoint=
+10),10>this.niuPoint?this.tipPoint[3].setString("\u725b"+this.niuPoint):this.tipPoint[3].setString("\u725b\u725b"),this.btnNiu.setVisible(!0),this.btnNoNiu.setVisible(!1)):(this.tipPoint[3].setString("\u6ca1\u725b"),this.btnNiu.setVisible(!1),this.btnNoNiu.setVisible(!0))},onTimer:function(){0>=this.leftTime||(9<this.leftTime?this.timerNumber.setString(this.leftTime):this.timerNumber.setString("0"+this.leftTime),this.leftTime--)},initUI:function(a){cc.log("--------initUI data",a);this.hideAllHandCards();
+this.btnNiu.setVisible(!1);this.btnNoNiu.setVisible(!1);this.btnTip.setVisible(!1);this.timerBG.setVisible(!1);this.timerBG.setVisible(!1);this.tipBar.setVisible(!1);for(var b in this.imgBanker)this.imgBanker[b].setVisible(!1);for(b in this.resultPoint)this.resultPoint[b].left.setVisible(!1),this.resultPoint[b].right.setVisible(!1);this.btnReady.setVisible(!0);this.txtBaseScore.setString(a.baseScore)},reconnect:function(){},onExit:function(){cc.spriteFrameCache.removeSpriteFramesFromFile(res.part3Plist);
+cc.spriteFrameCache.removeSpriteFramesFromFile(res.part4Plist);gameData.classicLayer=null}});var HallLayer=cc.Layer.extend({sprite:null,ctor:function(){this._super();var a=cc.winSize;cc.director.getVisibleOrigin();cc.spriteFrameCache.addSpriteFrames(res.part1Plist);cc.spriteFrameCache.addSpriteFrames(res.part2Plist);var b=new cc.Sprite(kGameConst.battle),c=new cc.Sprite(kGameConst.girl);c.setAnchorPoint(0,0);c.setPosition(a.width-c._rect.width,b._rect.height-80);this.addChild(c);b.setAnchorPoint(0,0);b.setPosition(5,0);this.addChild(b);b=new ccui.Button(kGameConst.btnMore[0],kGameConst.btnMore[1],
 "",ccui.Widget.PLIST_TEXTURE);b.setAnchorPoint(0,0);b.setPosition(50,1150);this.addChild(b);b=new ccui.Button(kGameConst.btnHelp[0],kGameConst.btnHelp[1],"",ccui.Widget.PLIST_TEXTURE);b.setAnchorPoint(0,0);b.setPosition(500,1150);this.addChild(b);this.light=new cc.Sprite(kGameConst.lights[0]);this.light.setAnchorPoint(0,0);this.light.setPosition(0,a.height-this.light._rect.height);this.addChild(this.light);this.lightIndex=0;this.schedule(this.changeLight,0.5);a=new ccui.Button(kGameConst.btnClassic[0],
 kGameConst.btnClassic[1],"",ccui.Widget.PLIST_TEXTURE);a.setAnchorPoint(0,0);a.setPosition(50,800);var d=this;a.addClickEventListener(function(){d.onClickClassic()});this.addChild(a);a=new ccui.Button(kGameConst.btnHundred[0],kGameConst.btnHundred[1],"",ccui.Widget.PLIST_TEXTURE);a.setAnchorPoint(0,0);a.setPosition(50,550);a.addClickEventListener(function(){d.onClickHundred()});this.addChild(a);a=new ccui.Button(kGameConst.btnSingle[0],kGameConst.btnSingle[1],"",ccui.Widget.PLIST_TEXTURE);a.setAnchorPoint(0,
 0);a.setPosition(50,300);a.addClickEventListener(function(){d.onClickSignle()});this.addChild(a);a=new ccui.Button(kGameConst.btnQuick[0],kGameConst.btnQuick[1],"",ccui.Widget.PLIST_TEXTURE);a.setAnchorPoint(0,0);a.setPosition(80,160);a.addClickEventListener(function(){d.onClickQuick()});this.addChild(a);a=new ccui.Button(kGameConst.btnGetMoney[0],kGameConst.btnGetMoney[1],"",ccui.Widget.PLIST_TEXTURE);a.setAnchorPoint(0,0);a.setPosition(405,10);this.addChild(a);a=new ccui.Button(kGameConst.btnCustomRoom[0],
 kGameConst.btnCustomRoom[1],"",ccui.Widget.PLIST_TEXTURE);a.setAnchorPoint(0,0);a.setPosition(650,20);this.addChild(a);a=new cc.Sprite(kGameConst.imgCustomRoom);a.setAnchorPoint(0,0);a.setPosition(670,0);this.addChild(a);gameData.hallLayer=this;return!0},changeLight:function(){this.lightIndex++;this.lightIndex%=2;this.light.setSpriteFrame((new cc.Sprite(kGameConst.lights[this.lightIndex])).getSpriteFrame())},onClickHundred:function(){alert("\u656c\u8bf7\u671f\u5f85")},onClickSignle:function(){alert("\u656c\u8bf7\u671f\u5f85")},
 onClickClassic:function(){var a=PlayerManager.getMySelf();if(a){var b=function(){cc.log("------gotoClassic");pomelo.request(NetWork.hallRoute+".gotoGame",{uid:a.id},function(b){NetWork.disconnect();NetWork.currectScene.createClassicGame();gameData.currenctConnectState=connectState.kClassicConnectting;pomelo.init({host:b.host,port:b.port},function(){gameData.currenctConnectState=connectState.kClassicConnected;pomelo.request(NetWork.classicRoomRoute+".queryEntry",{uid:a.id},function(a){gameData.currectGameState=
-kGameState.classic;gameData.classicLayer.setVisible(!0);gameData.classicLayer.initUI(a);gameData.classicLayer.registerNetEvent();NetWork.currectScene.releaseHallGame();var b=PlayerManager.getMySelf();b&&(b.seatId=a.seatId,b.tableId=a.tableId);if(a.gameData)gameData.classicLayer.onGameData(a.gameData)})})})};pomelo.isConnected()?gameData.currectGameState==kGameState.hall?b():gameData.currectGameState==kGameState.classic&&cc.log("---aready in classic game--"):NetWork.switchScene(gameData.currectConnecttedData,
+kGameState.classic;gameData.classicLayer.setVisible(!0);gameData.classicLayer.initUI(a);gameData.classicLayer.registerNetEvent();NetWork.currectScene.releaseHallGame();var b=PlayerManager.getMySelf();b&&(b.seatId=a.seatId,b.tableId=a.tableId);if(a.gameData)gameData.classicLayer.onGameData(a.gameData,!1)})})})};pomelo.isConnected()?gameData.currectGameState==kGameState.hall?b():gameData.currectGameState==kGameState.classic&&cc.log("---aready in classic game--"):NetWork.switchScene(gameData.currectConnecttedData,
 function(){b()})}else cc.log("-------error no player data on goto classic")},onClickQuick:function(){if(PlayerManager.getMySelf())this.onClickClassic();else cc.log("-------error no player data on ready")},onExit:function(){cc.log("--------hall.onExit-------------");cc.spriteFrameCache.removeSpriteFramesFromFile(res.part1Plist);cc.spriteFrameCache.removeSpriteFramesFromFile(res.part2Plist);gameData.hallLayer=null}});var pomelo=window.pomelo,BGLayer=cc.Layer.extend({sprite:null,ctor:function(){this._super();var a=cc.winSize,b=cc.director.getVisibleOrigin(),c=new cc.Sprite(res.hallbgJPG);c.setPosition(b.x+a.width/2,b.y+a.height/2);this.addChild(c);return!0}}),MainScene=cc.Scene.extend({onEnter:function(){this._super();NetWork.create(pomelo,this);this.schedule(this.checkConnecttingTime,1);this._listener1=cc.EventListener.create({event:cc.EventListener.CUSTOM,eventName:"onNetMsg",callback:function(a){a=a.getUserData();
 switch(a.msgid){case "heartbeat timeout":NetWork.login(NetWork.switchScene);break;case "disconnect":NetWork.reconnect()}cc.log("---on net msg-- ",a)}});cc.eventManager.addListener(this._listener1,1);var a=new BGLayer;this.addChild(a);this.createHall();NetWork.login(NetWork.switchScene)},createClassicGame:function(){this.classicGame||(this.classicGame=new ClassicGameLayer(pomelo),this.addChild(this.classicGame),this.classicGame.setAnchorPoint(0,0),this.classicGame.setPosition(0,0),this.classicGame.setVisible(!1),
 gameData.classicLayer=this.classicGame)},createHall:function(){this.hall||(this.hall=new HallLayer,this.addChild(this.hall))},releaseClassicGame:function(){this.classicGame&&(this.removeChild(this.classicGame),this.classicGame=null)},releaseHallGame:function(){this.hall&&(this.removeChild(this.hall),this.hall=null)},checkConnecttingTime:function(){NetWork.startTime&&NetWork.isReconnecting&&5E3<new Date-NetWork.startTime&&(NetWork.startTime=null,NetWork.reconnect(!0))}});cc.game.onStart=function(){!cc.sys.isNative&&document.getElementById("cocosLoading")&&document.body.removeChild(document.getElementById("cocosLoading"));cc.view.enableRetina(!0);cc.view.adjustViewPort(!0);cc.view.setDesignResolutionSize(800,1280,cc.ResolutionPolicy.SHOW_ALL);cc.view.resizeWithBrowserSize(!0);cc.LoaderScene.preload(g_resources,function(){cc.director.runScene(new MainScene)},this)};cc.game.run();
